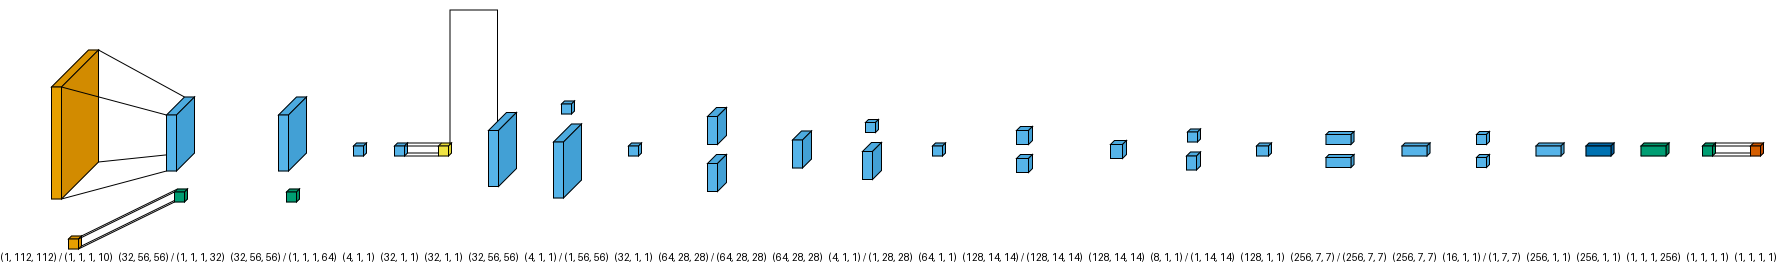
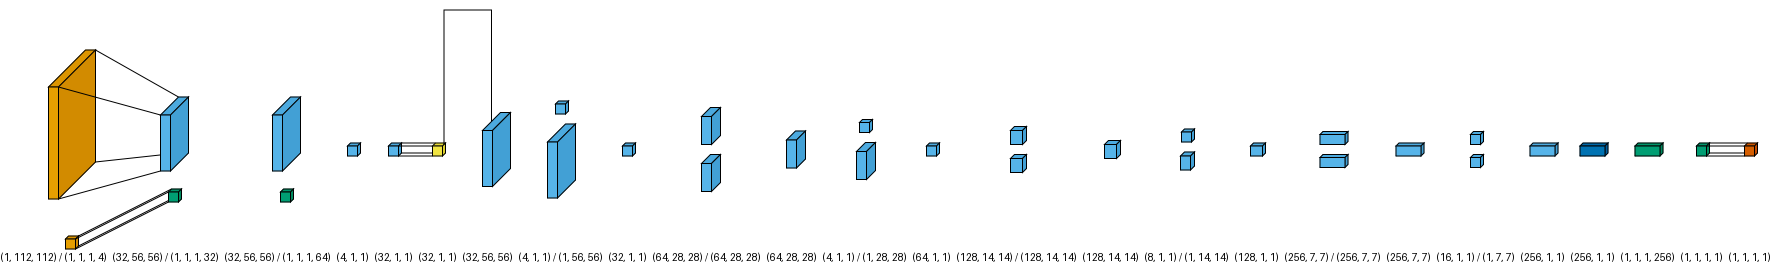
update: adjust MTDE-Net tabular input dimensions and update architecture diagrams

diff --git a/visual_torch/mtde_net_architecture.tex b/visual_torch/mtde_net_architecture.tex
@@ -47,7 +47,7 @@ Copia este bloque de código en tu tesis para graficar el modelo general:
     \node [block, right=of stages] (gap) {Global Avg\\ Pool (GAP)\\ \small(256)};
 
     % --- Rama Tabular (Abajo) ---
-    \node [input, below=of img, yshift=-1.0cm] (tab) {Metadatos\\ Tabulares\\ \small(10 variables)};
+    \node [input, below=of img, yshift=-1.0cm] (tab) {Metadatos\\ Tabulares\\ \small(4 variables)};
     \node [block, right=of tab] (mlp) {MLP Tabular\\ \small(64)};
 
     % --- Fusión y Cabezal ---
@@ -125,7 +125,7 @@ Copia este bloque de código para explicar la atención dual dentro de cada bloq
     
     % --- Conexión de Salto (Skip Connection) ---
     % Dibuja la flecha por abajo para evitar cruzar otras líneas
-    \draw [->, thick] (in.east) -- +(0.3,0) -- +(0.3,-2.2) -| (sum_skip.south);
+    \draw [->, thick] (in.east) -- +(0.3,0) -- +(0.3,-2.2) -| node[pos=0.4, below, font=\scriptsize, align=center] {Conv 1x1 + BN\\ (si $C_{in} \neq C_{out}$)} (sum_skip.south);
     
     \draw [->, thick] (sum_skip) -- (act);
     \draw [->, thick] (act) -- (out);

diff --git a/visual_torch/draw_mtde_net.py b/visual_torch/draw_mtde_net.py
@@ -1,6 +1,5 @@
 import os
 import sys
-import torch
 import torch.nn as nn
 import visualtorch
 
@@ -14,10 +13,10 @@ from src.models.dstfs import SoftThresholdPReLU
 
 def generate_diagrams():
     print("Inicializando modelo MTDE-Net...")
-    model = MTDE_Net(tabular_dim=10)
+    model = MTDE_Net(tabular_dim=4)
     model.eval()
 
-    input_shapes = ((1, 1, 112, 112), (1, 10))
+    input_shapes = ((1, 1, 112, 112), (1, 4))
 
     output_dir = os.path.dirname(os.path.abspath(__file__))
     os.makedirs(output_dir, exist_ok=True)
